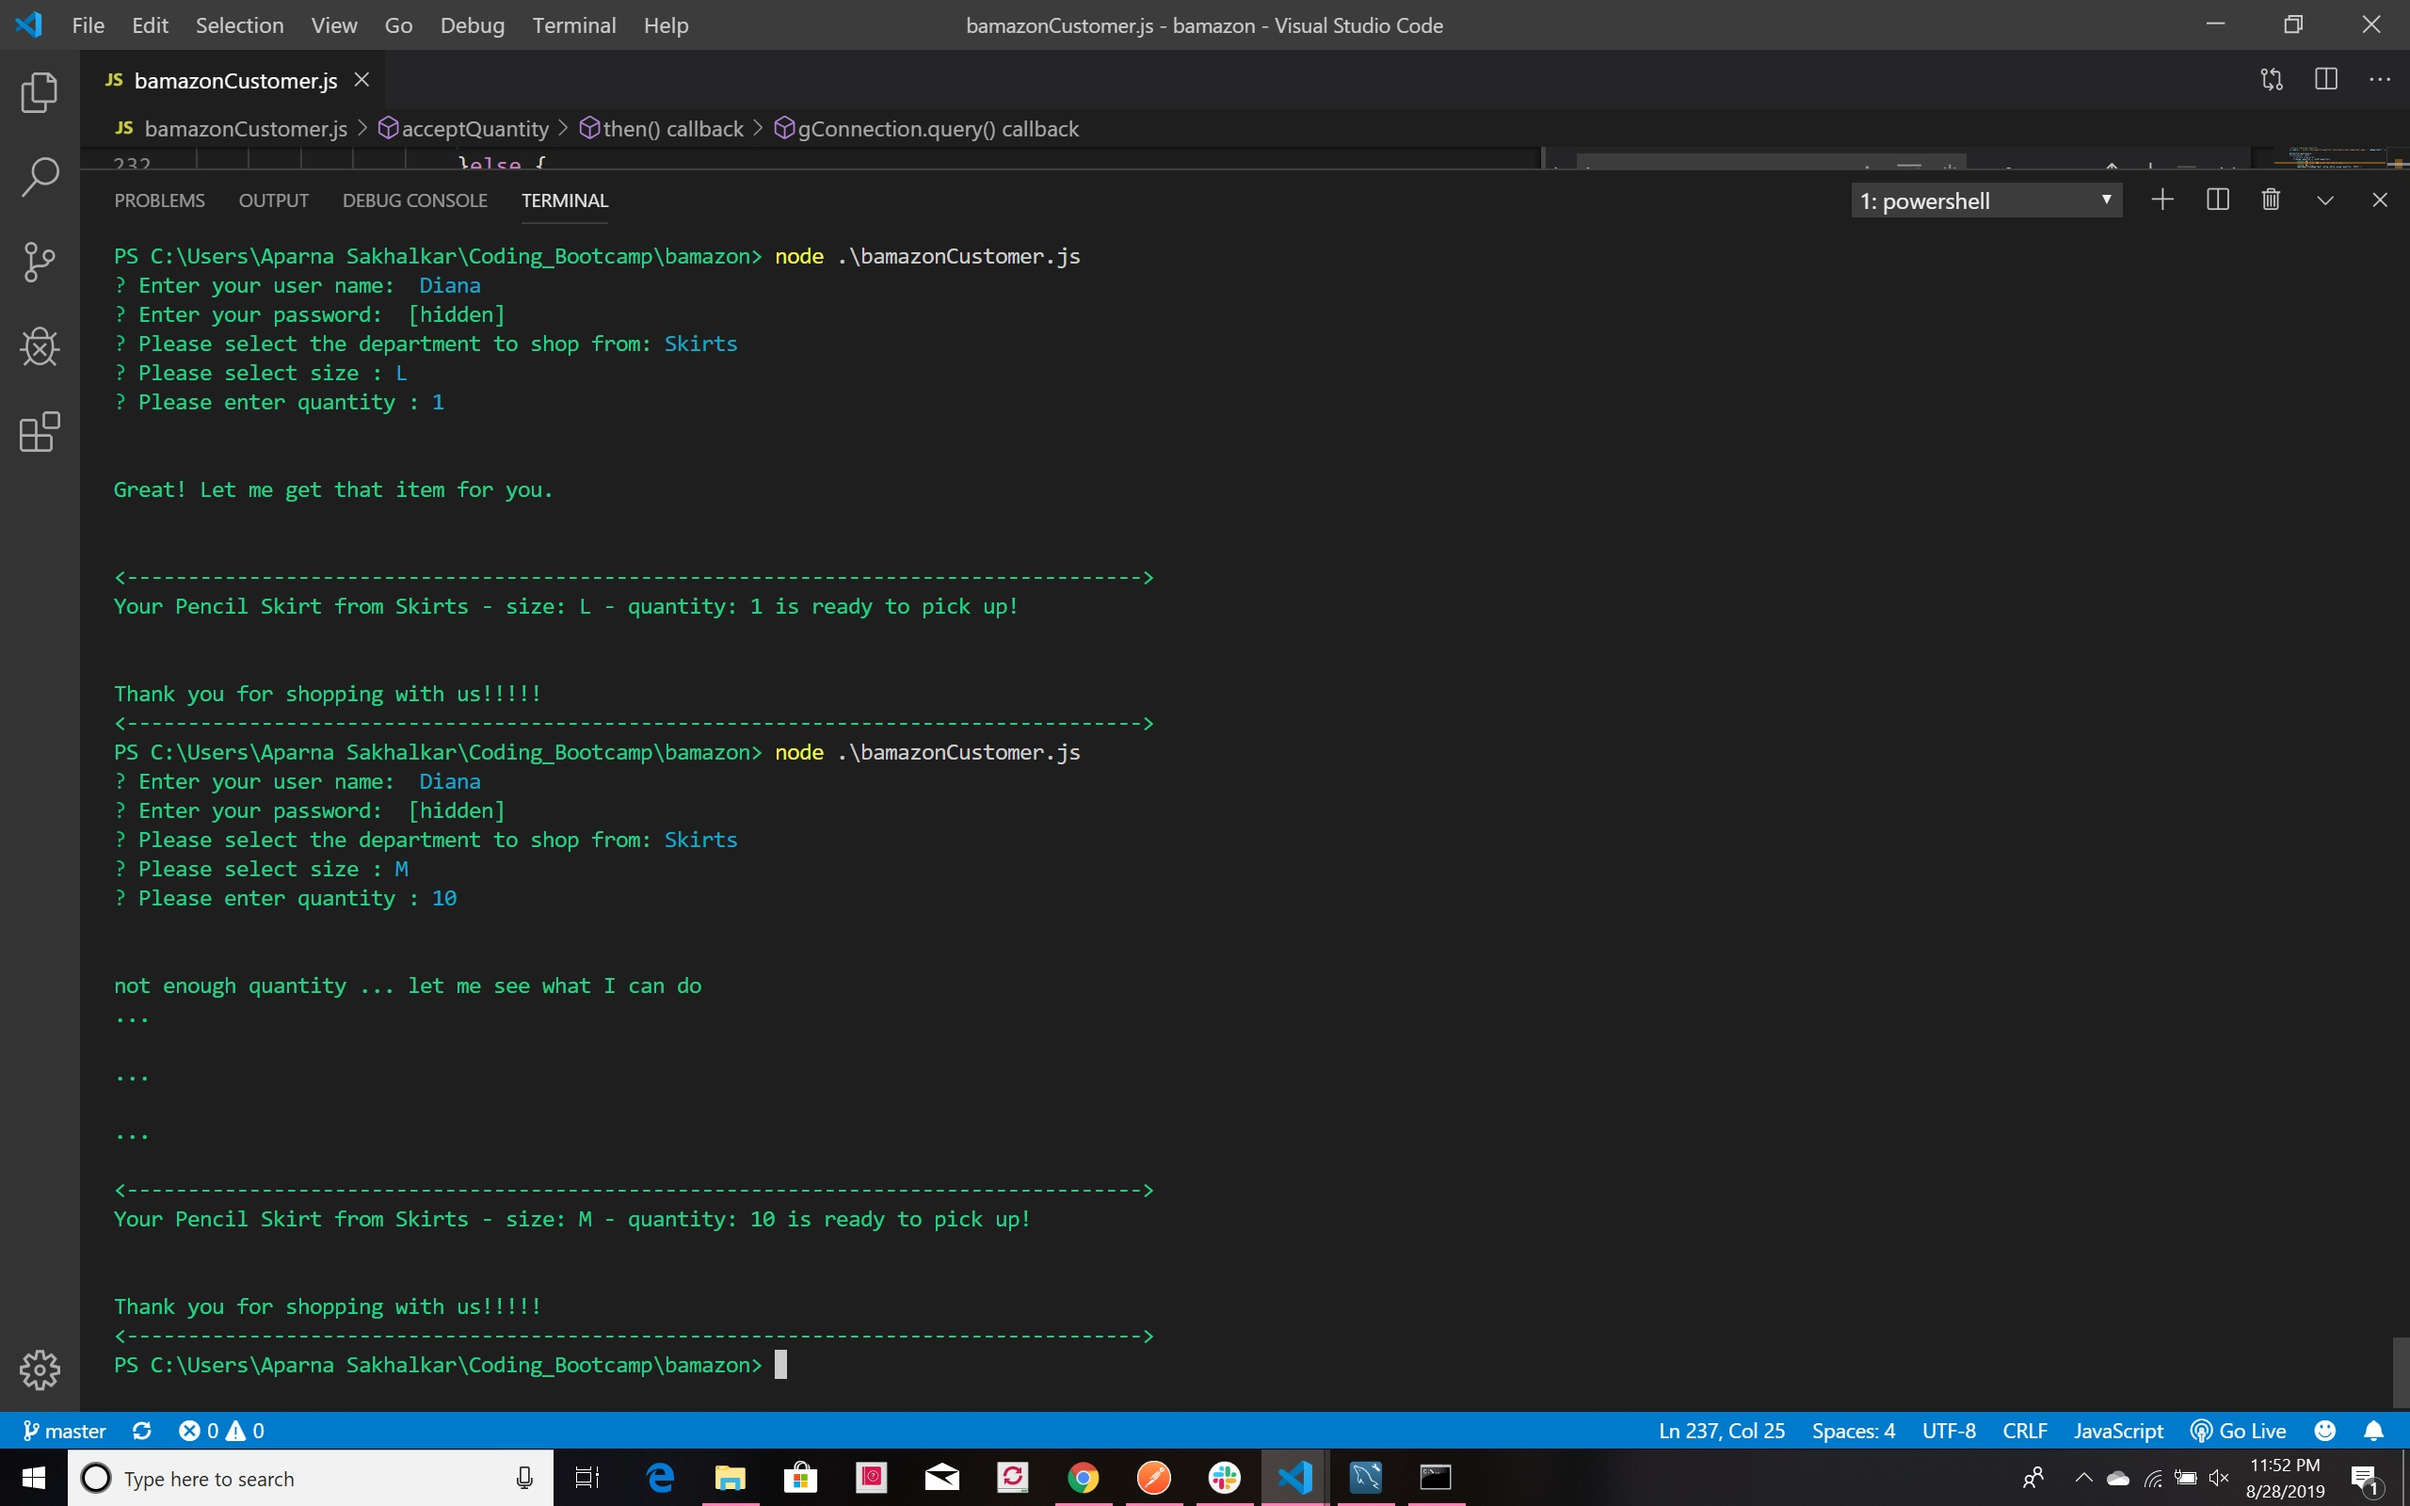
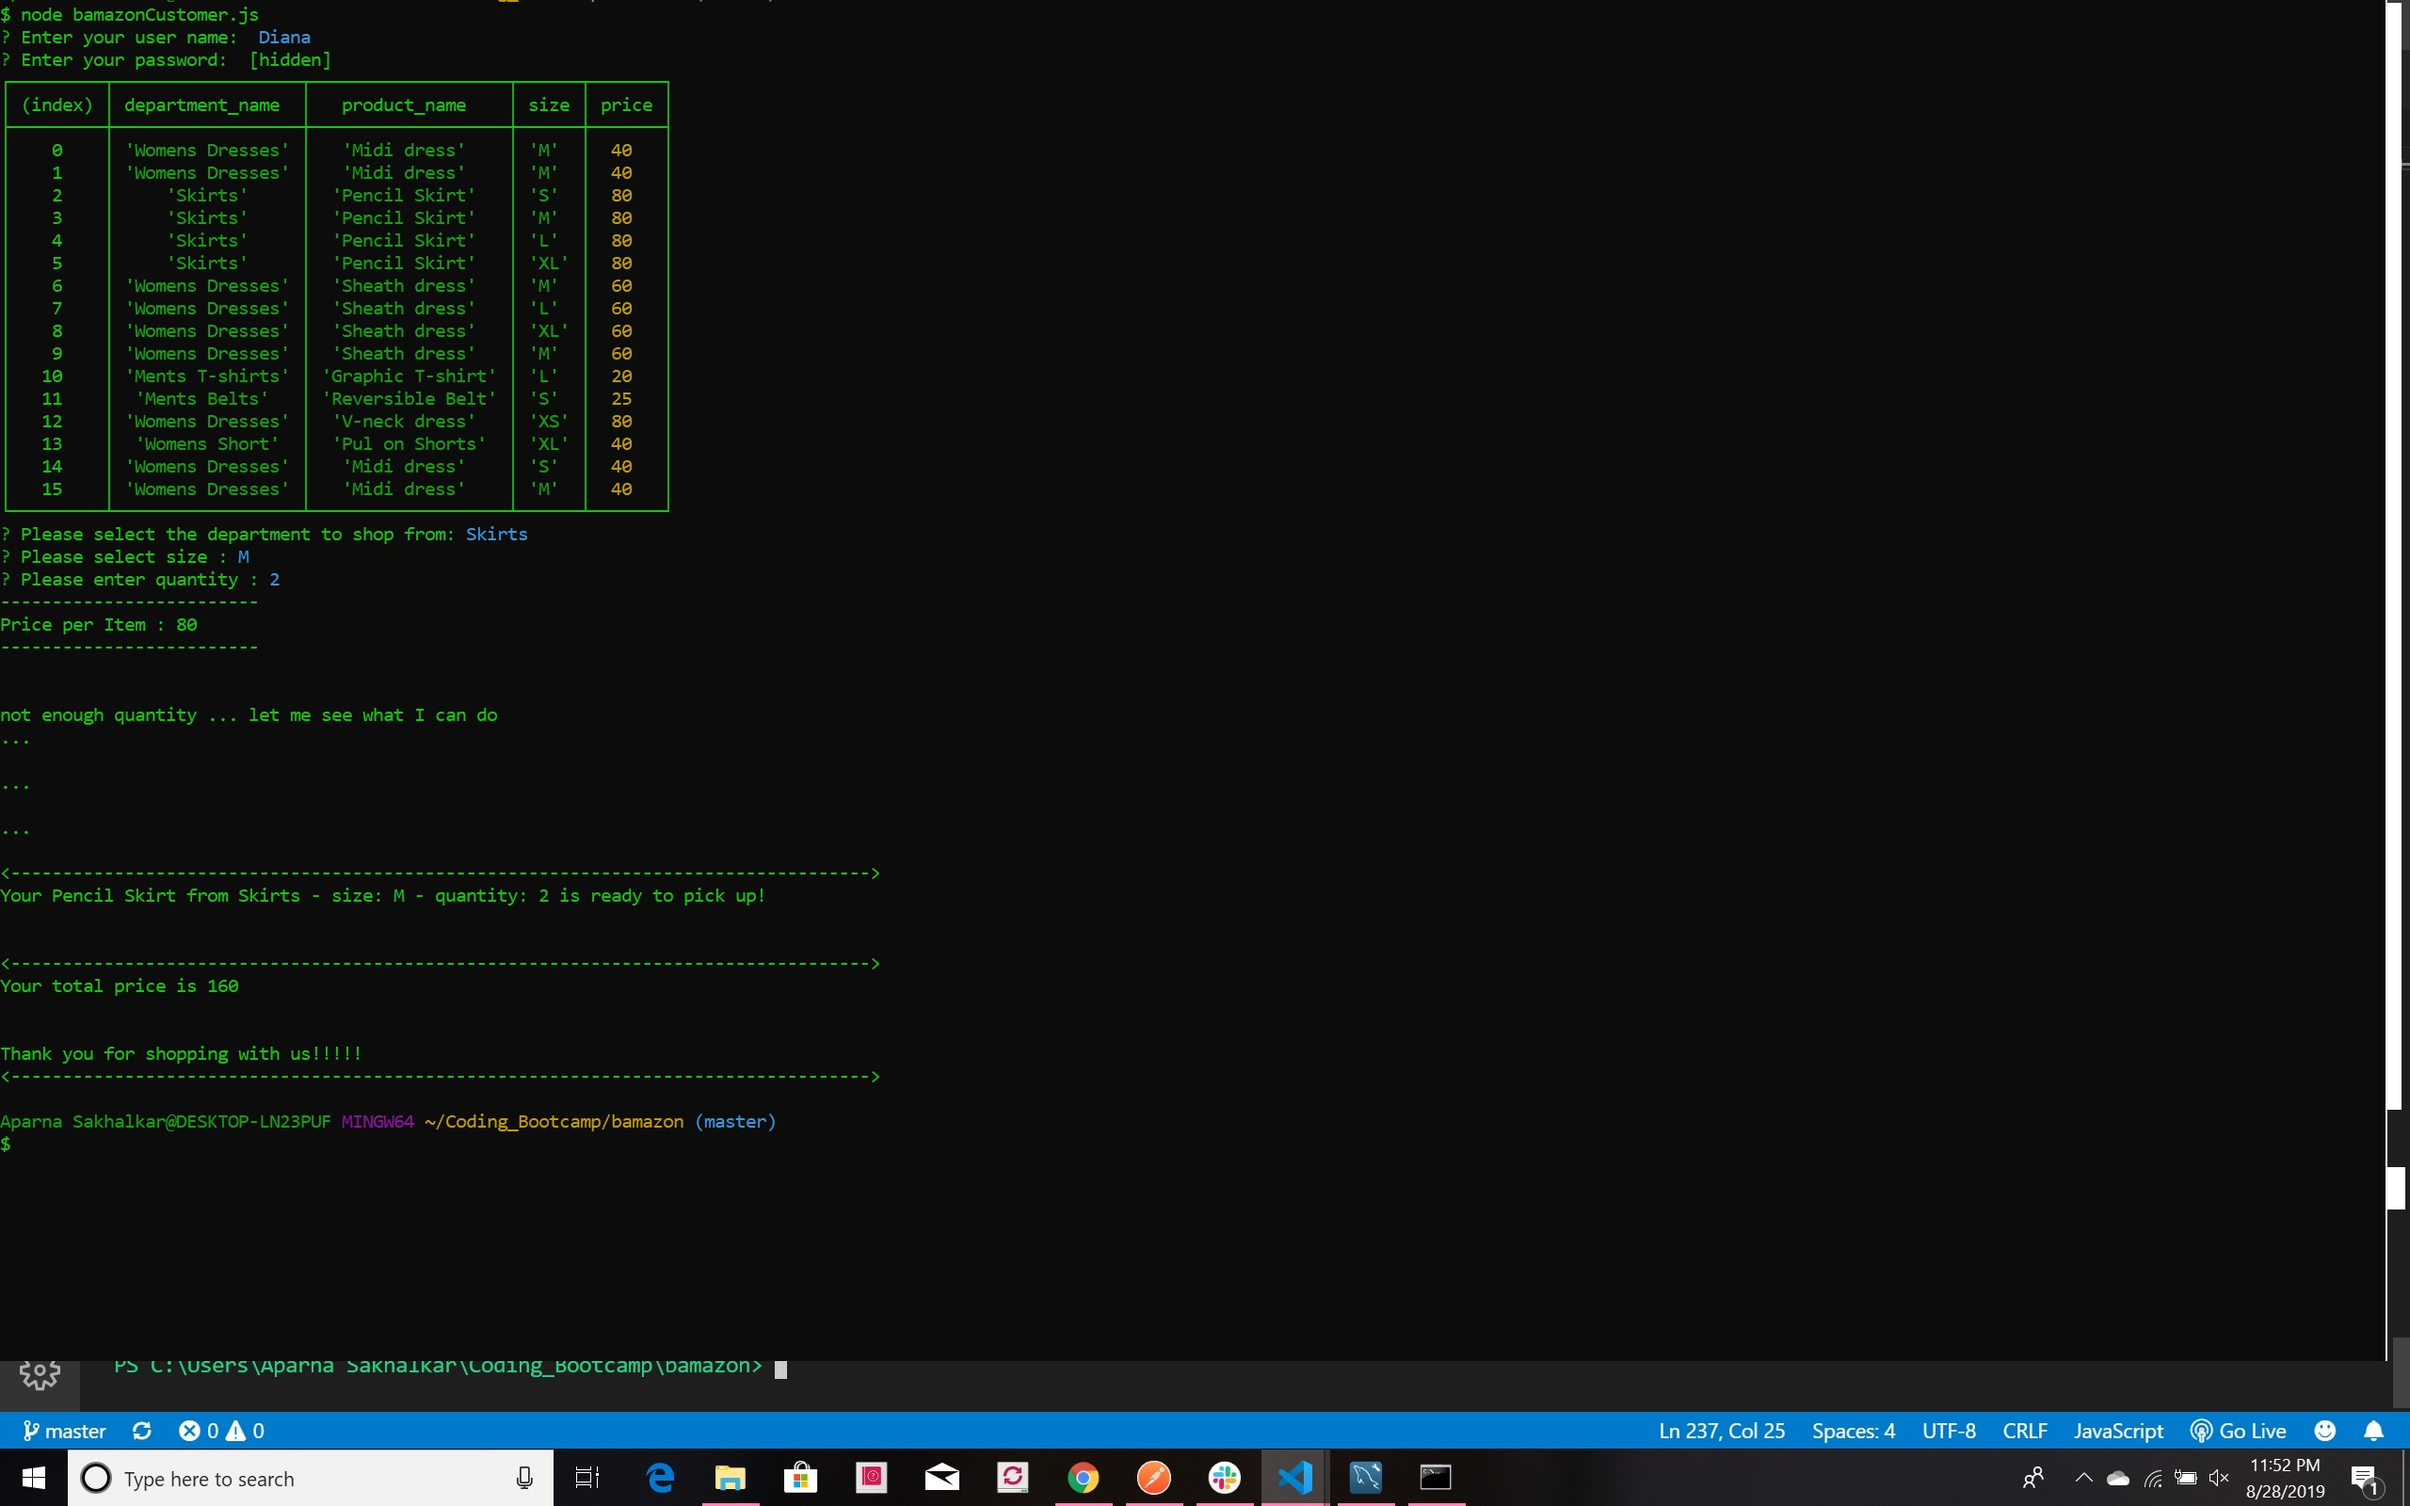
Added product display and total price display

Changed region(s): [[0.0, 0.0, 1.0, 0.9062], [0.9688, 0.7812, 1.0, 0.8125], [0.3125, 0.875, 0.3438, 0.9062]]

diff --git a/bamazonCustomer.js b/bamazonCustomer.js
@@ -26,6 +26,7 @@ function connectDB() {
 };
 // This function is to accept password again if the earlier attempt failed 
 function acceptPassword() {
+
     //console.log('in accept password again');
     inquirer.prompt([
         {
@@ -34,11 +35,16 @@ function acceptPassword() {
             message: "The password does not match, Please enter it again: "
         }
     ]).then(function (res) {
-        if (isPasswordValid(gPassword, res.myPassword)) {
+        //console.log('in then of acceptPAssword');
+        var ispwd = isPasswordValid(gPassword, res.myPassword); 
+        //console.log('ispwd',ispwd);
+        if (ispwd) {
             //console.log('Returning after passwords match in acceptPassword');
+            getDepartmentList();
             return true;
         }
         else {
+            //console.log('in else of acceptPassword');
             acceptPassword();
         };
     })
@@ -74,6 +80,7 @@ function acceptUserName() {
                         getDepartmentList();
                     }
                     else {
+                        //console.log('pwd does not match');
                         acceptPassword();
                         return true;
                     }
@@ -93,10 +100,18 @@ function isPasswordValid(dbPassword, password) {
         //console.log('passwords match');
         return true;
     }
+    //console.log('should not come here');
 }
+function displayProducts(){
+    gConnection.query('SELECT department_name, product_name, size, price from products', function(err, res){
+        if (err) throw err;
 
+        console.table(res);
+    })
+}
 // populate the global array to hold department names
 function getDepartmentList() {
+    displayProducts();
     //use the connection to select department names
     gConnection.query('SELECT distinct department_name from products', function (error, res) {
         if (error) throw error;
@@ -215,34 +230,39 @@ function acceptQuantity(pDepartment, pItem, pSize){
                 name: "quantity",
                 type: "input",
                 message: "Please enter quantity :"
-            })
+            }
+            )
             .then(function (answer) {
+                var pricePerItem = 0;
                 // based on their answer, show the list of items to choose from 
                 //console.log(answer.quantity);
-                var query = ' select stock_quantity quantity from products where department_name = "'+pDepartment+'" and product_name = "'+pItem+'" and size = "'+pSize+'"';
+                var query = ' select stock_quantity quantity, price pricePerItem from products where department_name = "'+pDepartment+'" and product_name = "'+pItem+'" and size = "'+pSize+'"';
 
                 gConnection.query(query, 
                 function(error, res){
                     if (error) throw error;
+                    console.log('-------------------------');
+                    console.log('Price per Item : '+res[0].pricePerItem);
+                    console.log('-------------------------');
                     if(answer.quantity <= res[0].quantity){
                         console.log('\n');
                         console.log('Great! Let me get that item for you.');
                         console.log('\n');
-                        updateQuantity(pDepartment, pItem, pSize, answer.quantity, 'DEDUCT');
+                        updateQuantity(pDepartment, pItem, pSize, answer.quantity, res[0].pricePerItem, 'DEDUCT');
                     }else {
                         console.log('\n');
                         console.log('not enough quantity ... let me see what I can do');
                         console.log('...\n');
                         console.log('...\n');
                         console.log('...\n');
-                        updateQuantity(pDepartment, pItem, pSize, answer.quantity,'ADD');
+                        updateQuantity(pDepartment, pItem, pSize, answer.quantity,res[0].pricePerItem, 'ADD');
                     }
                     return true;
                 })
             });
 }
 
-function updateQuantity(pDepartment, pItem, pSize, pQuantity, action){
+function updateQuantity(pDepartment, pItem, pSize, pQuantity, pricePerItem, action){
     var where = ' where department_name = "'+pDepartment+'" and product_name = "'+pItem+'" and size = "'+pSize+'"';
     var query;
     
@@ -259,17 +279,21 @@ function updateQuantity(pDepartment, pItem, pSize, pQuantity, action){
             if (error) throw error;
             //console.log(res);
             if(action === 'ADD'){
-                updateQuantity(pDepartment, pItem, pSize, pQuantity, 'DEDUCT');
+                updateQuantity(pDepartment, pItem, pSize, pQuantity, pricePerItem, 'DEDUCT');
                 return true;
             }else{
-                orderItem(pDepartment, pItem, pSize, pQuantity);
+                orderItem(pDepartment, pItem, pSize, pQuantity, pricePerItem);
             }                
          });                           
 };
 
-function orderItem(pDepartment, pItem, pSize, pQuantity){
+function orderItem(pDepartment, pItem, pSize, pQuantity, pricePerItem){
+    var totalPrice = pricePerItem * pQuantity;
     console.log('<----------------------------------------------------------------------------------->')
     console.log('Your '+pItem+' from '+pDepartment+' - size: '+pSize+' - quantity: '+pQuantity+' is ready to pick up!');
+    console.log('\n');
+    console.log('<----------------------------------------------------------------------------------->')
+    console.log('Your total price is '+totalPrice);
     console.log('\n');
     endConnection();
 };
